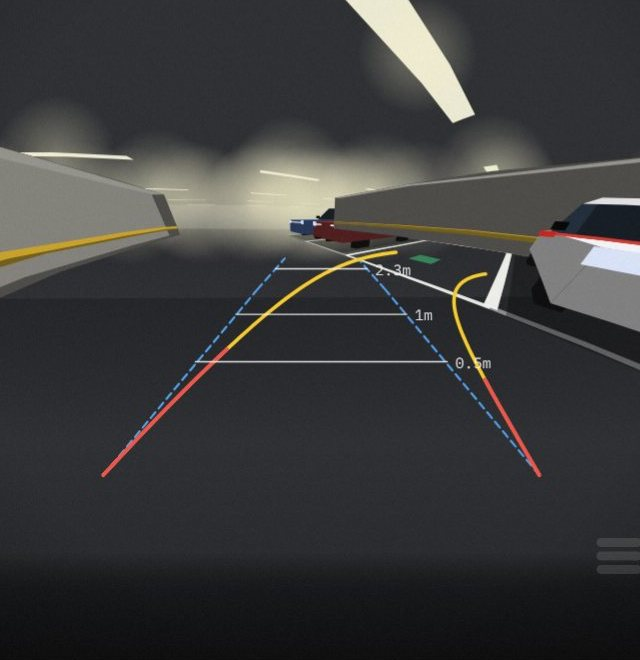
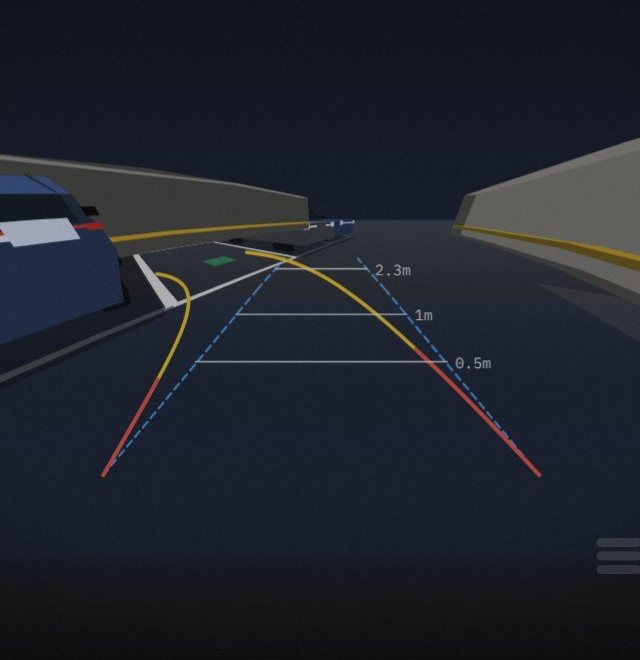
졸업 코스 · 기획서 03 표 압축 · 밤 히어로 · 접수양식 기획서
- 시안: 졸업 코스(초급·중급·고급 하나씩 연속 3개, 합계 기록, 리더보드 course)
- 기획서: 03 기능 목록을 표 + 접기로 압축, 54.7% 삭제, 출처·MAU 근거 보강
- 소개 페이지 히어로를 밤 후진 장면으로 교체
- docs/submission: 공식 접수양식(DOCX)에 기획서 내용 기입(01 개인정보 칸은 비움)

Claude-Session: https://claude.ai/code/session_01FzT5JMZgnQT3zngYysKg7k

diff --git a/docs/sian.html b/docs/sian.html
@@ -1126,7 +1126,7 @@ const SSOK = window.SSOK, V = window.SSOK_VIEW, $ = id => document.getElementByI
 const store = { get(k, d) { try { const v = localStorage.getItem(k); return v === null ? d : JSON.parse(v); } catch (e) { return d; } }, set(k, v) { try { localStorage.setItem(k, JSON.stringify(v)); } catch (e) {} } };
 let cleared = store.get("ssok.cleared", {});
 
-const S = { spec: SSOK.SPECS.AVANTE, stageIdx: 0, eng: null, sc: null, seed: 1, steer: 0, signal: "OFF", brake: true, brakeD: 1, hazL: false, gear: "P", guide: true, running: false, coach: "on", coachOverride: null, hintUntil: 0, demo: null, demoDone: false, lastScore: null, saved: false, sound: store.get("ssok.sound", true), portraitOk: false };
+const S = { course: null, spec: SSOK.SPECS.AVANTE, stageIdx: 0, eng: null, sc: null, seed: 1, steer: 0, signal: "OFF", brake: true, brakeD: 1, hazL: false, gear: "P", guide: true, running: false, coach: "on", coachOverride: null, hintUntil: 0, demo: null, demoDone: false, lastScore: null, saved: false, sound: store.get("ssok.sound", true), portraitOk: false };
 const COACH_BY_TIER = { "초급": "on", "중급": "hint", "고급": "off" }, COACH_LABEL = { on: "코치 켬", hint: "코치 힌트", off: "코치 끔" };
 const SSOK_STEPS = { 4: ["S 신호", "S 자리", "O 돌리기", "K 끝"], 5: ["S 신호", "S 자리", "O 돌리기", "O 보정", "K 끝"] };   // 코치 단계 = 쏙 공식 글자
 const sigOfGear = g => g === "D" ? "LEFT" : g === "R" ? "RIGHT" : "OFF";
@@ -1134,10 +1134,12 @@ let toastT = 0; function toast(msg, warn) { const t = $("toast"); t.textContent 
 const fill = (sel, map) => { sel.innerHTML = Object.entries(map).map(([k, v]) => `<option value="${k}">${v}</option>`).join(""); };
 fill($("fKind"), SSOK.KINDS); fill($("fTier"), Object.fromEntries(Object.keys(SSOK.TIERS).map(k => [k, k]))); fill($("fNeigh"), SSOK.NEIGH); fill($("fSide"), SSOK.SIDES); fill($("fHaz"), SSOK.HAZ);
 $("fTier").value = "중급"; $("fNeigh").value = "cars";
-const FREE = "free", DAILY = "daily";
+const FREE = "free", DAILY = "daily", COURSE = "course";
+// 졸업 코스(운전선생 벤치마킹 '단계 연습 → 종합'): 초급·중급·고급에서 하나씩 뽑아 연속 3개, 합계 시간이 기록
+function pickCourse() { const by = t => SSOK.STAGES.map((st, i) => [st, i]).filter(([st]) => st.tier === t).map(([, i]) => i); return ["초급", "중급", "고급"].map(t => { const l = by(t); return l[Math.floor(Math.random() * l.length)]; }); }
 // 오늘의 상황: 날짜가 seed — 모두가 같은 스테이지·같은 옆 차·같은 시작 자세로 기록을 겨룬다(기록은 날짜별 따로)
 function daily() { const d = new Date(), key = `${d.getFullYear()}-${String(d.getMonth() + 1).padStart(2, "0")}-${String(d.getDate()).padStart(2, "0")}`, n = +key.replace(/-/g, ""); return { key, seed: n, idx: n % SSOK.STAGES.length, label: `${d.getMonth() + 1}.${d.getDate()}` }; }
-function currentOpt() { return S.stageIdx === FREE ? { kind: $("fKind").value, tier: $("fTier").value, neighbors: $("fNeigh").value, side: $("fSide").value, hazards: +$("fHaz").value } : S.stageIdx === DAILY ? SSOK.STAGES[daily().idx] : SSOK.STAGES[S.stageIdx]; }
+function currentOpt() { return S.stageIdx === FREE ? { kind: $("fKind").value, tier: $("fTier").value, neighbors: $("fNeigh").value, side: $("fSide").value, hazards: +$("fHaz").value } : S.stageIdx === DAILY ? SSOK.STAGES[daily().idx] : S.stageIdx === COURSE ? SSOK.STAGES[S.course.list[S.course.i]] : SSOK.STAGES[S.stageIdx]; }
 function newSeed() { S.seed = S.stageIdx === DAILY ? daily().seed : (Math.random() * 1e6 | 0) + 1; }
 
 // ---- 소리(Web Audio, 파일 없음): 깜빡이 틱톡 · 비상등 · 주차 거리 경고 · 돌발 경보 · 충돌 · 완료 차임 ----
@@ -1154,11 +1156,11 @@ const SFX = { tick: () => tone(1800, 0.03, "square", 0.05), tock: () => tone(120
   hit: () => { tone(120, 0.25, "triangle", 0.25); tone(90, 0.3, "sine", 0.2, 0.02); }, parked: () => { [523, 659, 784, 1047].forEach((f, i) => tone(f, 0.18, "sine", 0.12, i * 0.12)); }, gear: () => tone(500, 0.04, "square", 0.04) };
 
 // ---- 리더보드(이 기기) ----
-function lbKey() { return `ssok.lb.${S.stageIdx === FREE ? "free" : S.stageIdx === DAILY ? "daily." + daily().key : SSOK.STAGES[S.stageIdx].no}.${S.spec.key}`; }
+function lbKey() { return `ssok.lb.${S.stageIdx === FREE ? "free" : S.stageIdx === DAILY ? "daily." + daily().key : S.stageIdx === COURSE ? "course" : SSOK.STAGES[S.stageIdx].no}.${S.spec.key}`; }
 function lbList() { return store.get(lbKey(), []); }
 function lbRank(total) { return lbList().filter(r => r.total < total).length + 1; }
 function lbAdd(rec) { const l = lbList(); l.push(rec); l.sort((a, b) => a.total - b.total); const top = l.slice(0, 10); store.set(lbKey(), top); const i = top.indexOf(rec); return i < 0 ? 0 : i + 1; }
-function renderLb() { const l = lbList(); $("lbTitle").textContent = `기록 TOP 5 · ${S.stageIdx === FREE ? "자유 연습" : S.stageIdx === DAILY ? "오늘의 상황 " + daily().label : SSOK.STAGES[S.stageIdx].no + "번"} · ${S.spec.name} · 이 기기`;
+function renderLb() { const l = lbList(); $("lbTitle").textContent = `기록 TOP 5 · ${S.stageIdx === FREE ? "자유 연습" : S.stageIdx === DAILY ? "오늘의 상황 " + daily().label : S.stageIdx === COURSE ? "졸업 코스(3개 합계)" : SSOK.STAGES[S.stageIdx].no + "번"} · ${S.spec.name} · 이 기기`;
   $("lbBody").innerHTML = l.length ? `<table>${l.slice(0, 5).map((r, i) => `<tr><td>${i + 1}</td><td>${r.name || "—"}</td><td class="r">${r.total.toFixed(1)} s</td><td class="r" style="color:var(--fg3)">${r.pen ? "+" + r.pen.toFixed(0) : ""}${r.clean ? " ✓" : ""}</td><td class="r" style="color:var(--fg3)">${r.date || ""}</td></tr>`).join("")}</table>` : `<div class="empty">아직 기록이 없어요. 첫 기록을 남겨 보세요.</div>`; }
 
 // ---- 홈 ----
@@ -1169,16 +1171,18 @@ function renderList() {
   SSOK.STAGES.forEach((st, i) => { if (st.tier !== lastTier) { html += `<div class="tier">${st.tier}</div>`; lastTier = st.tier; }
     const best = store.get(`ssok.lb.${st.no}.${S.spec.key}`, [])[0];
     html += `<button class="stg ${S.stageIdx === i ? "sel" : ""}" data-i="${i}"><span class="no">${String(st.no).padStart(2, "0")}</span><span class="t">${SSOK.stageTitle(st).replace(/^\d+\. \[[^\]]+\] /, "")}</span><span class="ok">${best ? best.total.toFixed(1) + " s" : (cleared[st.no] ? "✓" : "")}</span></button>`; });
+  { const best = store.get(`ssok.lb.course.${S.spec.key}`, [])[0]; html += `<div class="tier">졸업 코스</div><button class="stg ${S.stageIdx === COURSE ? "sel" : ""}" data-i="course"><span class="no">🎓</span><span class="t">초급 · 중급 · 고급 하나씩 연속 3개 · 합계가 기록</span><span class="ok">${best ? best.total.toFixed(1) + " s" : ""}</span></button>`; }
   html += `<div class="tier">자유 연습</div><button class="stg ${S.stageIdx === FREE ? "sel" : ""}" data-i="free"><span class="no">∞</span><span class="t">유형·난이도·옆 차·칸·돌발 직접 고르기</span></button>`;
   el.innerHTML = html;
-  el.querySelectorAll(".stg").forEach(b => b.onclick = () => { const idx = b.dataset.i === "free" ? FREE : b.dataset.i === "daily" ? DAILY : +b.dataset.i;
-    if (idx === S.stageIdx && idx !== FREE) { load(false); start(); return; }
+  el.querySelectorAll(".stg").forEach(b => b.onclick = () => { const idx = b.dataset.i === "free" ? FREE : b.dataset.i === "daily" ? DAILY : b.dataset.i === "course" ? COURSE : +b.dataset.i;
+    if (idx === COURSE && S.stageIdx !== COURSE) S.course = { list: pickCourse(), i: 0, sum: 0, pen: 0, clean: true };
+    if (idx === S.stageIdx && idx !== FREE) { if (idx === COURSE) S.course = { list: pickCourse(), i: 0, sum: 0, pen: 0, clean: true }; load(false); start(); return; }
     S.stageIdx = idx; renderList(); renderSetupPane(); const pane = document.querySelector(".setup .pane"); if (pane) pane.scrollTop = 0; });
 }
 function renderSetupPane() {
   const opt = currentOpt(), T = SSOK.TIERS[opt.tier];
   $("freeOpts").style.display = S.stageIdx === FREE ? "grid" : "none";
-  $("setupTitle").textContent = S.stageIdx === FREE ? "자유 연습" : (S.stageIdx === DAILY ? `오늘의 상황 ${daily().label} · ` : "") + SSOK.stageTitle(opt).replace(/^\d+\. /, "");
+  $("setupTitle").textContent = S.stageIdx === FREE ? "자유 연습" : S.stageIdx === COURSE ? `졸업 코스 · ${S.course.list.map(i => SSOK.STAGES[i].no).join(" → ")}번` : (S.stageIdx === DAILY ? `오늘의 상황 ${daily().label} · ` : "") + SSOK.stageTitle(opt).replace(/^\d+\. /, "");
   const what = { perp_rev: "비상등 켜고 D 로 칸을 지나쳐 자리를 잡고, R 로 들어가는 후면 주차. 뒷차축이 옆 칸을 지나면 멈춰서 핸들 끝까지, 노란선이 주차선 안에 들어오면 풀기.",
     perp_fwd: opt.neighbors === "none" ? "D 로 들어가는 전면 주차. 칸 입구가 사이드미러 옆에 오면 끝까지." : "전면 주차는 옆 차가 있으면 한 번에 안 들어갑니다. 바깥쪽으로 붙여 지나치다 40° 꺾고, R 로 핸들 반대로 2 m 뺀 뒤 다시 들어갑니다.",
     parallel: "평행 주차. D 로 앞차 옆에 나란히 서서 뒷바퀴가 앞차 뒷범퍼 선에 오면 R, 45°에서 핸들 반대로.", angled: "사선 45° 칸에 D 로. 칸 입구가 사이드미러 옆에 오면 끝까지, 나란해지면 직진." }[opt.kind];
@@ -1196,7 +1200,7 @@ $("hintBtn").onclick = () => { S.hintUntil = performance.now() + 3000; };
 function load(keepSeed, demo) {
   if (!keepSeed) newSeed();
   const opt = currentOpt(); S.sc = SSOK.build(S.spec, opt, S.seed, demo ? { noStartJitter: true } : null);
-  if (S.stageIdx === FREE) S.sc.title = "자유 연습 · " + SSOK.stageTitle({ ...opt, no: 0 }); if (S.stageIdx === DAILY) S.sc.title = `오늘의 상황 ${daily().label} · ` + S.sc.title;
+  if (S.stageIdx === FREE) S.sc.title = "자유 연습 · " + SSOK.stageTitle({ ...opt, no: 0 }); if (S.stageIdx === DAILY) S.sc.title = `오늘의 상황 ${daily().label} · ` + S.sc.title; if (S.stageIdx === COURSE) S.sc.title = `졸업 코스 ${S.course.i + 1}/3 · ` + S.sc.title;
   S.demo = demo ? new SSOK.Demo(SSOK, S.spec, S.sc, opt) : null; S.demoDone = false; $("demoBar").classList.toggle("show", !!demo); $("demoCap").textContent = "";
   S.eng = new SSOK.Engine(S.spec, S.sc, S.seed); S.saved = false;
   $("stageName").textContent = S.sc.title; $("topInfo").textContent = `${S.spec.name} · ${SSOK.ENV_LABEL[S.sc.env] || S.sc.env} · #${S.seed}`; lastSaid = "";
@@ -1258,7 +1262,8 @@ $("hazBtn").onclick = () => { userInput(); setHaz(!S.hazL); };
 $("gear").onclick = () => { S.gear = S.gear === "P" ? "D" : "P"; $("gearInd").innerHTML = S.gear === "P" ? "<b>P</b>R N D" : "P R N <b>D</b>"; $("gearInd").classList.toggle("warn", S.gear !== "P"); };
 $("guideBtn").onclick = () => { S.guide = !S.guide; $("guideBtn").classList.toggle("on", S.guide); };
 $("reset").onclick = () => load(true); $("again").onclick = () => load(true); $("sameAgain").onclick = () => load(true); $("againNew").onclick = () => load(false); $("newSit").onclick = () => load(false);
-function nextStage() { if (S.stageIdx === DAILY) S.stageIdx = daily().idx; if (S.stageIdx !== FREE) S.stageIdx = (S.stageIdx + 1) % SSOK.STAGES.length; renderList(); load(false); }
+function nextStage() { if (S.stageIdx === COURSE) { if (S.course.i < 2) { S.course.i++; load(false); return; } S.course = { list: pickCourse(), i: 0, sum: 0, pen: 0, clean: true }; load(false); return; }
+  if (S.stageIdx === DAILY) S.stageIdx = daily().idx; if (S.stageIdx !== FREE) S.stageIdx = (S.stageIdx + 1) % SSOK.STAGES.length; renderList(); load(false); }
 $("next").onclick = nextStage; $("toMenu").onclick = goHome;
 $("startBtn").onclick = () => { load(false); start(); };
 $("startDemo").onclick = () => { load(false, true); start(); };
@@ -1294,11 +1299,16 @@ setTimeout(() => $("opening").classList.remove("show"), 4200);
 
 // ---- 결과 + 기록 ----
 let wasParked = false;
-function showDone() { const eng = S.eng, hz = eng.hazStats, sc = eng.score(); S.lastScore = sc; $("done").classList.add("show"); SFX.parked();
+function showDone() { const eng = S.eng, hz = eng.hazStats, sc0 = eng.score(); let sc = sc0; $("done").classList.add("show"); SFX.parked();
+  if (S.stageIdx === COURSE) { const c = S.course; c.sum += sc0.total; c.pen += sc0.pen; c.clean = c.clean && sc0.clean; const last = c.i >= 2;
+    sc = last ? { ...sc0, total: c.sum, pen: c.pen, drive: c.sum - c.pen, clean: c.clean, corrections: sc0.corrections } : sc0;
+    $("next").textContent = last ? "새 졸업 코스 ▶" : `다음 코스 ${c.i + 2}/3 ▶`; $("saveRec").classList.toggle("hidden", !last); $("nameIn").classList.toggle("hidden", !last); }
+  else { $("next").textContent = "다음 스테이지 ▶"; $("saveRec").classList.remove("hidden"); $("nameIn").classList.remove("hidden"); }
+  S.lastScore = sc;
   const T = eng.trace, rev = T.filter(p => p.v < 0).length;
-  $("doneTitle").textContent = sc.clean ? "쏙! 클린" : (eng.hits === 0 && hz.hit === 0 ? "쏙!" : "쏙! 들어갔지만 부딪혔어요");
+  $("doneTitle").textContent = S.stageIdx === COURSE && S.course.i >= 2 ? (sc.clean ? "졸업! 클린" : "졸업!") : S.stageIdx === COURSE ? `${S.course.i + 1}/3 쏙` : sc.clean ? "쏙! 클린" : (eng.hits === 0 && hz.hit === 0 ? "쏙!" : "쏙! 들어갔지만 부딪혔어요");
   $("doneTxt").textContent = `${eng.sc.title} · 후진 ${T.length ? (rev / T.length * 100).toFixed(0) : 0}% · 충돌 ${eng.hits}회` + (hz.total ? ` · 돌발 ${hz.total}회 중 멈춤 ${hz.avoided}회 · 사고 ${hz.hit}회` : "") + (sc.corrections ? ` · 보정 ${sc.corrections}회` : "");
-  $("recBig").innerHTML = `${sc.total.toFixed(1)}<small> s</small>`;
+  $("recBig").innerHTML = `${sc.total.toFixed(1)}<small> s</small>` + (S.stageIdx === COURSE ? `<small style="margin-left:10px;color:var(--fg2)">${S.course.i >= 2 ? "3개 합계" : "누적 " + S.course.sum.toFixed(1) + " s"}</small>` : "");
   const parts = [`충돌 ${eng.hits}×5`]; if (hz.hit) parts.push(`사고 ${hz.hit}×15`); if (sc.corrections) parts.push(`보정 ${sc.corrections}×3`); if (sc.noHazLights) parts.push("비상등 안 켬 +2");
   $("recPen").textContent = sc.pen ? `주행 ${sc.drive.toFixed(1)} + 패널티 ${sc.pen.toFixed(0)} (${parts.join(" · ")})` : `주행 ${sc.drive.toFixed(1)} · 패널티 없음`;
   $("recClean").classList.toggle("hidden", !sc.clean);
@@ -1306,7 +1316,8 @@ function showDone() { const eng = S.eng, hz = eng.hazStats, sc = eng.score(); S.
   $("nameIn").value = store.get("ssok.name", ""); $("saveMsg").textContent = ""; $("saveRec").disabled = false;
   $("review").innerHTML = eng.review().map(t => `<li>${t}</li>`).join("");
   RP.trace = T; RP.ghost = ghostPath(); RP.t0 = performance.now(); RP.dur = T.length ? T[T.length - 1].t : 0;
-  if (S.stageIdx !== FREE && S.stageIdx !== DAILY && sc.clean) { cleared[SSOK.STAGES[S.stageIdx].no] = true; store.set("ssok.cleared", cleared); } }
+  if (S.stageIdx === COURSE) { if (sc0.clean) { cleared[SSOK.STAGES[S.course.list[S.course.i]].no] = true; store.set("ssok.cleared", cleared); } }
+  else if (S.stageIdx !== FREE && S.stageIdx !== DAILY && sc.clean) { cleared[SSOK.STAGES[S.stageIdx].no] = true; store.set("ssok.cleared", cleared); } }
 // 공식 궤적: 같은 상황(같은 시작 자세)을 시연 운전자가 가게 해서 뒷차축 자취를 얻는다
 const RP = { trace: [], ghost: [], t0: 0, dur: 0 };
 function ghostPath() { try { const eng = new SSOK.Engine(S.spec, S.sc, S.seed), d = new SSOK.Demo(SSOK, S.spec, S.sc, currentOpt()), pts = []; let t = 0;

diff --git a/site/preview/index.html b/site/preview/index.html
@@ -414,7 +414,7 @@ const SSOK = window.SSOK, V = window.SSOK_VIEW, $ = id => document.getElementByI
 const store = { get(k, d) { try { const v = localStorage.getItem(k); return v === null ? d : JSON.parse(v); } catch (e) { return d; } }, set(k, v) { try { localStorage.setItem(k, JSON.stringify(v)); } catch (e) {} } };
 let cleared = store.get("ssok.cleared", {});
 
-const S = { spec: SSOK.SPECS.AVANTE, stageIdx: 0, eng: null, sc: null, seed: 1, steer: 0, signal: "OFF", brake: true, brakeD: 1, hazL: false, gear: "P", guide: true, running: false, coach: "on", coachOverride: null, hintUntil: 0, demo: null, demoDone: false, lastScore: null, saved: false, sound: store.get("ssok.sound", true), portraitOk: false };
+const S = { course: null, spec: SSOK.SPECS.AVANTE, stageIdx: 0, eng: null, sc: null, seed: 1, steer: 0, signal: "OFF", brake: true, brakeD: 1, hazL: false, gear: "P", guide: true, running: false, coach: "on", coachOverride: null, hintUntil: 0, demo: null, demoDone: false, lastScore: null, saved: false, sound: store.get("ssok.sound", true), portraitOk: false };
 const COACH_BY_TIER = { "초급": "on", "중급": "hint", "고급": "off" }, COACH_LABEL = { on: "코치 켬", hint: "코치 힌트", off: "코치 끔" };
 const SSOK_STEPS = { 4: ["S 신호", "S 자리", "O 돌리기", "K 끝"], 5: ["S 신호", "S 자리", "O 돌리기", "O 보정", "K 끝"] };   // 코치 단계 = 쏙 공식 글자
 const sigOfGear = g => g === "D" ? "LEFT" : g === "R" ? "RIGHT" : "OFF";
@@ -422,10 +422,12 @@ let toastT = 0; function toast(msg, warn) { const t = $("toast"); t.textContent 
 const fill = (sel, map) => { sel.innerHTML = Object.entries(map).map(([k, v]) => `<option value="${k}">${v}</option>`).join(""); };
 fill($("fKind"), SSOK.KINDS); fill($("fTier"), Object.fromEntries(Object.keys(SSOK.TIERS).map(k => [k, k]))); fill($("fNeigh"), SSOK.NEIGH); fill($("fSide"), SSOK.SIDES); fill($("fHaz"), SSOK.HAZ);
 $("fTier").value = "중급"; $("fNeigh").value = "cars";
-const FREE = "free", DAILY = "daily";
+const FREE = "free", DAILY = "daily", COURSE = "course";
+// 졸업 코스(운전선생 벤치마킹 '단계 연습 → 종합'): 초급·중급·고급에서 하나씩 뽑아 연속 3개, 합계 시간이 기록
+function pickCourse() { const by = t => SSOK.STAGES.map((st, i) => [st, i]).filter(([st]) => st.tier === t).map(([, i]) => i); return ["초급", "중급", "고급"].map(t => { const l = by(t); return l[Math.floor(Math.random() * l.length)]; }); }
 // 오늘의 상황: 날짜가 seed — 모두가 같은 스테이지·같은 옆 차·같은 시작 자세로 기록을 겨룬다(기록은 날짜별 따로)
 function daily() { const d = new Date(), key = `${d.getFullYear()}-${String(d.getMonth() + 1).padStart(2, "0")}-${String(d.getDate()).padStart(2, "0")}`, n = +key.replace(/-/g, ""); return { key, seed: n, idx: n % SSOK.STAGES.length, label: `${d.getMonth() + 1}.${d.getDate()}` }; }
-function currentOpt() { return S.stageIdx === FREE ? { kind: $("fKind").value, tier: $("fTier").value, neighbors: $("fNeigh").value, side: $("fSide").value, hazards: +$("fHaz").value } : S.stageIdx === DAILY ? SSOK.STAGES[daily().idx] : SSOK.STAGES[S.stageIdx]; }
+function currentOpt() { return S.stageIdx === FREE ? { kind: $("fKind").value, tier: $("fTier").value, neighbors: $("fNeigh").value, side: $("fSide").value, hazards: +$("fHaz").value } : S.stageIdx === DAILY ? SSOK.STAGES[daily().idx] : S.stageIdx === COURSE ? SSOK.STAGES[S.course.list[S.course.i]] : SSOK.STAGES[S.stageIdx]; }
 function newSeed() { S.seed = S.stageIdx === DAILY ? daily().seed : (Math.random() * 1e6 | 0) + 1; }
 
 // ---- 소리(Web Audio, 파일 없음): 깜빡이 틱톡 · 비상등 · 주차 거리 경고 · 돌발 경보 · 충돌 · 완료 차임 ----
@@ -442,11 +444,11 @@ const SFX = { tick: () => tone(1800, 0.03, "square", 0.05), tock: () => tone(120
   hit: () => { tone(120, 0.25, "triangle", 0.25); tone(90, 0.3, "sine", 0.2, 0.02); }, parked: () => { [523, 659, 784, 1047].forEach((f, i) => tone(f, 0.18, "sine", 0.12, i * 0.12)); }, gear: () => tone(500, 0.04, "square", 0.04) };
 
 // ---- 리더보드(이 기기) ----
-function lbKey() { return `ssok.lb.${S.stageIdx === FREE ? "free" : S.stageIdx === DAILY ? "daily." + daily().key : SSOK.STAGES[S.stageIdx].no}.${S.spec.key}`; }
+function lbKey() { return `ssok.lb.${S.stageIdx === FREE ? "free" : S.stageIdx === DAILY ? "daily." + daily().key : S.stageIdx === COURSE ? "course" : SSOK.STAGES[S.stageIdx].no}.${S.spec.key}`; }
 function lbList() { return store.get(lbKey(), []); }
 function lbRank(total) { return lbList().filter(r => r.total < total).length + 1; }
 function lbAdd(rec) { const l = lbList(); l.push(rec); l.sort((a, b) => a.total - b.total); const top = l.slice(0, 10); store.set(lbKey(), top); const i = top.indexOf(rec); return i < 0 ? 0 : i + 1; }
-function renderLb() { const l = lbList(); $("lbTitle").textContent = `기록 TOP 5 · ${S.stageIdx === FREE ? "자유 연습" : S.stageIdx === DAILY ? "오늘의 상황 " + daily().label : SSOK.STAGES[S.stageIdx].no + "번"} · ${S.spec.name} · 이 기기`;
+function renderLb() { const l = lbList(); $("lbTitle").textContent = `기록 TOP 5 · ${S.stageIdx === FREE ? "자유 연습" : S.stageIdx === DAILY ? "오늘의 상황 " + daily().label : S.stageIdx === COURSE ? "졸업 코스(3개 합계)" : SSOK.STAGES[S.stageIdx].no + "번"} · ${S.spec.name} · 이 기기`;
   $("lbBody").innerHTML = l.length ? `<table>${l.slice(0, 5).map((r, i) => `<tr><td>${i + 1}</td><td>${r.name || "—"}</td><td class="r">${r.total.toFixed(1)} s</td><td class="r" style="color:var(--fg3)">${r.pen ? "+" + r.pen.toFixed(0) : ""}${r.clean ? " ✓" : ""}</td><td class="r" style="color:var(--fg3)">${r.date || ""}</td></tr>`).join("")}</table>` : `<div class="empty">아직 기록이 없어요. 첫 기록을 남겨 보세요.</div>`; }
 
 // ---- 홈 ----
@@ -457,16 +459,18 @@ function renderList() {
   SSOK.STAGES.forEach((st, i) => { if (st.tier !== lastTier) { html += `<div class="tier">${st.tier}</div>`; lastTier = st.tier; }
     const best = store.get(`ssok.lb.${st.no}.${S.spec.key}`, [])[0];
     html += `<button class="stg ${S.stageIdx === i ? "sel" : ""}" data-i="${i}"><span class="no">${String(st.no).padStart(2, "0")}</span><span class="t">${SSOK.stageTitle(st).replace(/^\d+\. \[[^\]]+\] /, "")}</span><span class="ok">${best ? best.total.toFixed(1) + " s" : (cleared[st.no] ? "✓" : "")}</span></button>`; });
+  { const best = store.get(`ssok.lb.course.${S.spec.key}`, [])[0]; html += `<div class="tier">졸업 코스</div><button class="stg ${S.stageIdx === COURSE ? "sel" : ""}" data-i="course"><span class="no">🎓</span><span class="t">초급 · 중급 · 고급 하나씩 연속 3개 · 합계가 기록</span><span class="ok">${best ? best.total.toFixed(1) + " s" : ""}</span></button>`; }
   html += `<div class="tier">자유 연습</div><button class="stg ${S.stageIdx === FREE ? "sel" : ""}" data-i="free"><span class="no">∞</span><span class="t">유형·난이도·옆 차·칸·돌발 직접 고르기</span></button>`;
   el.innerHTML = html;
-  el.querySelectorAll(".stg").forEach(b => b.onclick = () => { const idx = b.dataset.i === "free" ? FREE : b.dataset.i === "daily" ? DAILY : +b.dataset.i;
-    if (idx === S.stageIdx && idx !== FREE) { load(false); start(); return; }
+  el.querySelectorAll(".stg").forEach(b => b.onclick = () => { const idx = b.dataset.i === "free" ? FREE : b.dataset.i === "daily" ? DAILY : b.dataset.i === "course" ? COURSE : +b.dataset.i;
+    if (idx === COURSE && S.stageIdx !== COURSE) S.course = { list: pickCourse(), i: 0, sum: 0, pen: 0, clean: true };
+    if (idx === S.stageIdx && idx !== FREE) { if (idx === COURSE) S.course = { list: pickCourse(), i: 0, sum: 0, pen: 0, clean: true }; load(false); start(); return; }
     S.stageIdx = idx; renderList(); renderSetupPane(); const pane = document.querySelector(".setup .pane"); if (pane) pane.scrollTop = 0; });
 }
 function renderSetupPane() {
   const opt = currentOpt(), T = SSOK.TIERS[opt.tier];
   $("freeOpts").style.display = S.stageIdx === FREE ? "grid" : "none";
-  $("setupTitle").textContent = S.stageIdx === FREE ? "자유 연습" : (S.stageIdx === DAILY ? `오늘의 상황 ${daily().label} · ` : "") + SSOK.stageTitle(opt).replace(/^\d+\. /, "");
+  $("setupTitle").textContent = S.stageIdx === FREE ? "자유 연습" : S.stageIdx === COURSE ? `졸업 코스 · ${S.course.list.map(i => SSOK.STAGES[i].no).join(" → ")}번` : (S.stageIdx === DAILY ? `오늘의 상황 ${daily().label} · ` : "") + SSOK.stageTitle(opt).replace(/^\d+\. /, "");
   const what = { perp_rev: "비상등 켜고 D 로 칸을 지나쳐 자리를 잡고, R 로 들어가는 후면 주차. 뒷차축이 옆 칸을 지나면 멈춰서 핸들 끝까지, 노란선이 주차선 안에 들어오면 풀기.",
     perp_fwd: opt.neighbors === "none" ? "D 로 들어가는 전면 주차. 칸 입구가 사이드미러 옆에 오면 끝까지." : "전면 주차는 옆 차가 있으면 한 번에 안 들어갑니다. 바깥쪽으로 붙여 지나치다 40° 꺾고, R 로 핸들 반대로 2 m 뺀 뒤 다시 들어갑니다.",
     parallel: "평행 주차. D 로 앞차 옆에 나란히 서서 뒷바퀴가 앞차 뒷범퍼 선에 오면 R, 45°에서 핸들 반대로.", angled: "사선 45° 칸에 D 로. 칸 입구가 사이드미러 옆에 오면 끝까지, 나란해지면 직진." }[opt.kind];
@@ -484,7 +488,7 @@ $("hintBtn").onclick = () => { S.hintUntil = performance.now() + 3000; };
 function load(keepSeed, demo) {
   if (!keepSeed) newSeed();
   const opt = currentOpt(); S.sc = SSOK.build(S.spec, opt, S.seed, demo ? { noStartJitter: true } : null);
-  if (S.stageIdx === FREE) S.sc.title = "자유 연습 · " + SSOK.stageTitle({ ...opt, no: 0 }); if (S.stageIdx === DAILY) S.sc.title = `오늘의 상황 ${daily().label} · ` + S.sc.title;
+  if (S.stageIdx === FREE) S.sc.title = "자유 연습 · " + SSOK.stageTitle({ ...opt, no: 0 }); if (S.stageIdx === DAILY) S.sc.title = `오늘의 상황 ${daily().label} · ` + S.sc.title; if (S.stageIdx === COURSE) S.sc.title = `졸업 코스 ${S.course.i + 1}/3 · ` + S.sc.title;
   S.demo = demo ? new SSOK.Demo(SSOK, S.spec, S.sc, opt) : null; S.demoDone = false; $("demoBar").classList.toggle("show", !!demo); $("demoCap").textContent = "";
   S.eng = new SSOK.Engine(S.spec, S.sc, S.seed); S.saved = false;
   $("stageName").textContent = S.sc.title; $("topInfo").textContent = `${S.spec.name} · ${SSOK.ENV_LABEL[S.sc.env] || S.sc.env} · #${S.seed}`; lastSaid = "";
@@ -546,7 +550,8 @@ $("hazBtn").onclick = () => { userInput(); setHaz(!S.hazL); };
 $("gear").onclick = () => { S.gear = S.gear === "P" ? "D" : "P"; $("gearInd").innerHTML = S.gear === "P" ? "<b>P</b>R N D" : "P R N <b>D</b>"; $("gearInd").classList.toggle("warn", S.gear !== "P"); };
 $("guideBtn").onclick = () => { S.guide = !S.guide; $("guideBtn").classList.toggle("on", S.guide); };
 $("reset").onclick = () => load(true); $("again").onclick = () => load(true); $("sameAgain").onclick = () => load(true); $("againNew").onclick = () => load(false); $("newSit").onclick = () => load(false);
-function nextStage() { if (S.stageIdx === DAILY) S.stageIdx = daily().idx; if (S.stageIdx !== FREE) S.stageIdx = (S.stageIdx + 1) % SSOK.STAGES.length; renderList(); load(false); }
+function nextStage() { if (S.stageIdx === COURSE) { if (S.course.i < 2) { S.course.i++; load(false); return; } S.course = { list: pickCourse(), i: 0, sum: 0, pen: 0, clean: true }; load(false); return; }
+  if (S.stageIdx === DAILY) S.stageIdx = daily().idx; if (S.stageIdx !== FREE) S.stageIdx = (S.stageIdx + 1) % SSOK.STAGES.length; renderList(); load(false); }
 $("next").onclick = nextStage; $("toMenu").onclick = goHome;
 $("startBtn").onclick = () => { load(false); start(); };
 $("startDemo").onclick = () => { load(false, true); start(); };
@@ -582,11 +587,16 @@ setTimeout(() => $("opening").classList.remove("show"), 4200);
 
 // ---- 결과 + 기록 ----
 let wasParked = false;
-function showDone() { const eng = S.eng, hz = eng.hazStats, sc = eng.score(); S.lastScore = sc; $("done").classList.add("show"); SFX.parked();
+function showDone() { const eng = S.eng, hz = eng.hazStats, sc0 = eng.score(); let sc = sc0; $("done").classList.add("show"); SFX.parked();
+  if (S.stageIdx === COURSE) { const c = S.course; c.sum += sc0.total; c.pen += sc0.pen; c.clean = c.clean && sc0.clean; const last = c.i >= 2;
+    sc = last ? { ...sc0, total: c.sum, pen: c.pen, drive: c.sum - c.pen, clean: c.clean, corrections: sc0.corrections } : sc0;
+    $("next").textContent = last ? "새 졸업 코스 ▶" : `다음 코스 ${c.i + 2}/3 ▶`; $("saveRec").classList.toggle("hidden", !last); $("nameIn").classList.toggle("hidden", !last); }
+  else { $("next").textContent = "다음 스테이지 ▶"; $("saveRec").classList.remove("hidden"); $("nameIn").classList.remove("hidden"); }
+  S.lastScore = sc;
   const T = eng.trace, rev = T.filter(p => p.v < 0).length;
-  $("doneTitle").textContent = sc.clean ? "쏙! 클린" : (eng.hits === 0 && hz.hit === 0 ? "쏙!" : "쏙! 들어갔지만 부딪혔어요");
+  $("doneTitle").textContent = S.stageIdx === COURSE && S.course.i >= 2 ? (sc.clean ? "졸업! 클린" : "졸업!") : S.stageIdx === COURSE ? `${S.course.i + 1}/3 쏙` : sc.clean ? "쏙! 클린" : (eng.hits === 0 && hz.hit === 0 ? "쏙!" : "쏙! 들어갔지만 부딪혔어요");
   $("doneTxt").textContent = `${eng.sc.title} · 후진 ${T.length ? (rev / T.length * 100).toFixed(0) : 0}% · 충돌 ${eng.hits}회` + (hz.total ? ` · 돌발 ${hz.total}회 중 멈춤 ${hz.avoided}회 · 사고 ${hz.hit}회` : "") + (sc.corrections ? ` · 보정 ${sc.corrections}회` : "");
-  $("recBig").innerHTML = `${sc.total.toFixed(1)}<small> s</small>`;
+  $("recBig").innerHTML = `${sc.total.toFixed(1)}<small> s</small>` + (S.stageIdx === COURSE ? `<small style="margin-left:10px;color:var(--fg2)">${S.course.i >= 2 ? "3개 합계" : "누적 " + S.course.sum.toFixed(1) + " s"}</small>` : "");
   const parts = [`충돌 ${eng.hits}×5`]; if (hz.hit) parts.push(`사고 ${hz.hit}×15`); if (sc.corrections) parts.push(`보정 ${sc.corrections}×3`); if (sc.noHazLights) parts.push("비상등 안 켬 +2");
   $("recPen").textContent = sc.pen ? `주행 ${sc.drive.toFixed(1)} + 패널티 ${sc.pen.toFixed(0)} (${parts.join(" · ")})` : `주행 ${sc.drive.toFixed(1)} · 패널티 없음`;
   $("recClean").classList.toggle("hidden", !sc.clean);
@@ -594,7 +604,8 @@ function showDone() { const eng = S.eng, hz = eng.hazStats, sc = eng.score(); S.
   $("nameIn").value = store.get("ssok.name", ""); $("saveMsg").textContent = ""; $("saveRec").disabled = false;
   $("review").innerHTML = eng.review().map(t => `<li>${t}</li>`).join("");
   RP.trace = T; RP.ghost = ghostPath(); RP.t0 = performance.now(); RP.dur = T.length ? T[T.length - 1].t : 0;
-  if (S.stageIdx !== FREE && S.stageIdx !== DAILY && sc.clean) { cleared[SSOK.STAGES[S.stageIdx].no] = true; store.set("ssok.cleared", cleared); } }
+  if (S.stageIdx === COURSE) { if (sc0.clean) { cleared[SSOK.STAGES[S.course.list[S.course.i]].no] = true; store.set("ssok.cleared", cleared); } }
+  else if (S.stageIdx !== FREE && S.stageIdx !== DAILY && sc.clean) { cleared[SSOK.STAGES[S.stageIdx].no] = true; store.set("ssok.cleared", cleared); } }
 // 공식 궤적: 같은 상황(같은 시작 자세)을 시연 운전자가 가게 해서 뒷차축 자취를 얻는다
 const RP = { trace: [], ghost: [], t0: 0, dur: 0 };
 function ghostPath() { try { const eng = new SSOK.Engine(S.spec, S.sc, S.seed), d = new SSOK.Demo(SSOK, S.spec, S.sc, currentOpt()), pts = []; let t = 0;

diff --git a/site/plan/index.html b/site/plan/index.html
@@ -71,6 +71,7 @@ li b,p b{font-weight:600}
 footer{padding:28px 0 48px;color:var(--fg3);font-size:13px;border-top:1px solid var(--line)}
 @media (max-width:720px){.facts,.steps{grid-template-columns:1fr 1fr}}
 @media (max-width:460px){.facts,.steps{grid-template-columns:1fr}}
+table.feat{width:100%;border-collapse:collapse;font-size:14px;margin:12px 0}table.feat th,table.feat td{padding:8px 10px;border-bottom:1px solid var(--line);text-align:left;vertical-align:top}table.feat th{color:var(--fg3);font-weight:500;font-size:12px}table.feat td:first-child{white-space:nowrap;width:10em}details.more{margin:8px 0 0}details.more summary{cursor:pointer;color:var(--fg2);font-size:13px}details.more ol{margin-top:10px}
 </style>
 </head>
 <body>
@@ -101,15 +102,14 @@ footer{padding:28px 0 48px;color:var(--fg3);font-size:13px;border-top:1px solid 
     <p>주차는 사고의 집합소이자 운전의 첫 공포입니다. 차에는 이미 후방카메라와 어라운드뷰가 있지만, 사람들은 그 화면을 읽지 못합니다. 그리고 세워 둔 차에서는 후방 모니터가 R에서만, 어라운드뷰는 P에서 꺼져 연습할 곳이 없습니다.</p>
     <div class="facts">
       <div class="fact"><div class="n">30.2%</div><div class="l">물적 사고 중 주차 사고. 그중 후진 53.8%</div><div class="s">보험개발원 2017 · 2012~14년 사고</div></div>
-      <div class="fact"><div class="n">54.7%</div><div class="l">직장인 주차 스트레스 호소</div><div class="s">엠브레인, n=1,000</div></div>
-      <div class="fact"><div class="n">절반↑</div><div class="l">기능시험 탈락자 중 직각주차(T자)에서 탈락</div><div class="s">도로교통공단 보도</div></div>
+      <div class="fact"><div class="n">절반↑</div><div class="l">기능시험 탈락자 중 직각주차(T자)에서 탈락</div><div class="s">시험장 관계자 발언 · 인사이트 보도</div></div>
       <div class="fact"><div class="n">56%</div><div class="l">후방카메라만 있어도 정지 더미와 충돌</div><div class="s">IIHS 2014, n=111</div></div>
       <div class="fact"><div class="n">8~12%</div><div class="l">후진 시간 중 화면을 보는 비율</div><div class="s">NHTSA 2008</div></div>
       <div class="fact"><div class="n">15회</div><div class="l">4카메라 주차 화면이 손에 익기까지 걸린 시행 수</div><div class="s">UMTRI 2004 · n=16</div></div>
     </div>
     <p>후진 중 사람을 치는 사고(backover)는 미국에서만 해마다 약 210명이 숨지고 그중 31%가 5세 미만 어린이입니다. 후방카메라 의무화(FMVSS 111)의 근거였지만, 카메라가 있어도 화면을 보고 멈추지 않으면 소용이 없습니다. 그래서 이 앱은 사람이 갑자기 나오는 상황을 연습에 넣습니다.</p>
     <p>NHTSA는 2024년 보고서에서 "경험자·미경험자 모두 가이드라인을 노면에 겹쳐 읽는 훈련이 필요하다"고 썼습니다. 그런데 연습할 곳이 없습니다. 방문 운전연수는 10시간 58만 원이고, 불법 방문연수 단속은 2년 만에 180건에서 402건으로 늘었습니다(채우지 못한 수요). 2025년 말~2026년 초 시행령 개정으로 방문 도로연수가 허용돼 "집 앞 주차장에서 연습"이 제도 안에 들어왔습니다. 폰 주차 게임은 손가락 핸들이라 몸에 남지 않습니다.</p>
-    <p class="src">출처: 보험개발원 주차사고 통계, 엠브레인 트렌드모니터 2021, IIHS Status Report 49(2), NHTSA DOT HS 811 024, NHTSA FMVSS 111 final rule(2014) backover 통계, UMTRI-2004-17 4-camera parking study, NHTSA 2024 RVS older drivers, 세계일보 2025-09, SBS Biz 2025-12.</p>
+    <p class="src">출처: 보험개발원 주차사고 통계(2017, 2012~14년 사고), 도로교통공단 시험장 관계자 보도, IIHS Status Report 49(2), NHTSA DOT HS 811 024, NHTSA FMVSS 111 final rule(2014) backover 통계, UMTRI-2004-17 4-camera parking study, NHTSA 2024 RVS older drivers, 세계일보 2025-09, SBS Biz 2025-12.</p>
   </section>
 
   <section id="s3">
@@ -120,7 +120,8 @@ footer{padding:28px 0 48px;color:var(--fg3);font-size:13px;border-top:1px solid 
       <div class="step"><div class="k">O</div><div class="t">돌리기 O-turn</div><div class="d">서서 핸들을 끝까지. 살살 떼며 노란선이 칸에 들어오면 풀기.</div></div>
       <div class="step"><div class="k">K</div><div class="t">끝 Keep</div><div class="d">나란하면 가운데, 빨간선 전에 브레이크, 레버 N. 탑뷰 리플레이로 내 길과 공식 길을 비교.</div></div>
     </div>
-    <ol>
+    <table class="feat"><thead><tr><th>기능</th><th>한 줄</th></tr></thead><tbody><tr><td><b>내 차 핸들 = 게임 핸들</b></td><td>조향각을 실시간으로 읽어 가상 차 바퀴가 같이 꺾입니다.</td></tr><tr><td><b>오토 차 주차 그대로: 브레이크를 밟은 채 시작, 깜빡이 레버로 방향(왼쪽 = D 전진, 오른쪽 = R 후진), 브레이크를 떼면 크리핑으로 움직이고 밟으면 정지</b></td><td>가속 페달은 쓰지 않습니다(SDK에 신호도 없음).</td></tr><tr><td><b>내 차 치수</b></td><td>전장·전폭·휠베이스로 가상 차와 주차 칸(2.5×5.0 m)의 비율을 맞추고, 조향 기하(핸들 각 → 바퀴 각 → 회전반경)로 실제 차처럼 움직입니다.</td></tr><tr><td><b>차 센터 디스플레이 한 장(가로)</b></td><td>Pleos Connect 꼴로 왼쪽 앱 독 · 위 상태 바(기어 P R N D · 비상등) · 가운데 [좌 사이드미러][후방(전진 때 전방)카메라][어라운드뷰][우 사이드미러] · 아래 클러스터(핸들 각·가상 기어·브레이크·비상등·주차 거리 경고).</td></tr><tr><td><b>쏙 공식 S·S·O·K</b></td><td>앱 이름이 곧 주차 순서입니다 — S 신호(브레이크 밟은 채 비상등, 밟은 채 D) → S 자리(칸을 지나쳐 멈추고 밟은 채 R) → O 돌리기(서서 핸들 끝까지, 살살 떼기) → K 끝(나란히, 브레이크, 레버 N = P).</td></tr><tr><td><b>주차는 칸이 앞에 보이는 지점에서 시작합니다</b></td><td>바로 후진이 아니라 비상등 → D 로 칸을 지나쳐 자리 잡기 → R 로 넣기가 기본입니다(전면·사선은 D 그대로).</td></tr><tr><td><b>스테이지 15개 + 자유 연습</b></td><td>유형 4(후면 직각 · 전면 직각 · 평행 · 사선 45°) × 난이도 3 × 옆 차(없음 · 양옆 · 기둥) × 좌우 칸.</td></tr><tr><td><b>돌발</b></td><td>중급 8번부터 보행자 · 아이 · 쇼핑카트가 옆에서 나와 경로 한가운데 멈춰 섭니다.</td></tr><tr><td><b>매번 다른 상황</b></td><td>시작 위치·각, 옆 차가 칸 안에 선 자리, 차 색, 지하/지상이 상황 번호(seed)로 바뀝니다.</td></tr><tr><td><b>시연으로 가르칩니다</b></td><td>스테이지마다 [시연 먼저 보기]를 누르면 같은 상황에서 차가 공식대로 스스로 주차합니다.</td></tr><tr><td><b>공식은 받아 적게 하지 않습니다</b></td><td>코치 문구는 초급만 켜고, 중급은 [힌트]를 누를 때만, 고급은 끕니다(돌발·충돌 경고는 늘).</td></tr><tr><td><b>기록과 리더보드</b></td><td>기록 = 주행 시간 + 패널티(충돌 5초 · 사람·카트 사고 15초 · 공식보다 많은 전후진 보정 3초 · 비상등 안 켬 2초).</td></tr><tr><td><b>리플레이</b></td><td>끝나면 탑뷰 애니메이션으로 내 궤적(파란 실선)과 공식 궤적(흰 점선, 같은 상황을 시연 운전자가 간 길)을 겹쳐 어디서 핸들을 일찍 풀었는지가 바로 보입니다.</td></tr><tr><td><b>거울부터</b></td><td>독의 거울 맞추기에서 오른쪽 사이드미러를 끌어 아래·바깥 각을 맞춥니다.</td></tr><tr><td><b>오늘의 상황</b></td><td>날짜가 상황 번호라 모두 같은 스테이지·같은 옆 차·같은 시작 자세로 기록을 겨룹니다.</td></tr><tr><td><b>안전 설계</b></td><td>5분 세션, 핸들 가득 유지 요구 없음(EPS 과부하 보호·드라이 스티어링 고려), '연습 화면' 표시.</td></tr></tbody></table>
+    <details class="more"><summary>자세히 (원문 16항목)</summary><ol>
       <li><b>내 차 핸들 = 게임 핸들.</b> 조향각을 실시간으로 읽어 가상 차 바퀴가 같이 꺾입니다.</li>
       <li><b>오토 차 주차 그대로: 브레이크를 밟은 채 시작, 깜빡이 레버로 방향(왼쪽 = D 전진, 오른쪽 = R 후진), 브레이크를 떼면 크리핑으로 움직이고 밟으면 정지.</b> 가속 페달은 쓰지 않습니다(SDK에 신호도 없음). 속도는 크리핑 0.6 m/s 고정. 주차는 속도가 아니라 핸들과 타이밍이기 때문입니다.</li>
       <li><b>내 차 치수.</b> 전장·전폭·휠베이스로 가상 차와 주차 칸(2.5×5.0 m)의 비율을 맞추고, 조향 기하(핸들 각 → 바퀴 각 → 회전반경)로 실제 차처럼 움직입니다.</li>
@@ -137,7 +138,7 @@ footer{padding:28px 0 48px;color:var(--fg3);font-size:13px;border-top:1px solid 
       <li><b>거울부터.</b> 독의 거울 맞추기에서 오른쪽 사이드미러를 끌어 아래·바깥 각을 맞춥니다. 차체 1/5·뒷바퀴·옆 칸 주차선이 보이면 통과. 후측방에 차·사람이 있으면 거울 안쪽에 경고 아이콘이 점멸합니다.</li>
       <li><b>오늘의 상황.</b> 날짜가 상황 번호라 모두 같은 스테이지·같은 옆 차·같은 시작 자세로 기록을 겨룹니다. 차종은 아반떼·그랜저·투싼, 옆 차도 이 셋 중 하나가 실제 치수로 섭니다.</li>
       <li><b>안전 설계.</b> 5분 세션, 핸들 가득 유지 요구 없음(EPS 과부하 보호·드라이 스티어링 고려), '연습 화면' 표시.</li>
-    </ol>
+    </ol></details>
     <p><b>차에서만 가능한 이유.</b> 폰·태블릿·어떤 앱도 내 차 핸들 각도·깜빡이·브레이크를 읽지 못합니다. 내 차 치수와 내 차 화면 구성으로 연습해야 기준점 감각이 그대로 옮겨집니다. 실제 카메라 영상은 서드파티 앱에 열리지 않고 P에서는 꺼지므로, 재현이 유일한 길이자 어라운드뷰 없는 차에도 가치를 줍니다.</p>
   </section>
 
@@ -186,14 +187,14 @@ footer{padding:28px 0 48px;color:var(--fg3);font-size:13px;border-top:1px solid 
         <tr><td>초보(신차·중고차)</td><td>신규 면허 88.5만 명/년(10·20대 80%). 첫차의 64%가 중고차, 이유 1위 '운전 미숙' 53%(오토벨 1,148명)</td></tr>
         <tr><td>장롱면허 재시작</td><td>연수 10시간 58만 원, 불법 방문연수 단속 180→402건(2년), 2026-01 방문연수 합법화, 쏘카 교육용 차량 운영</td></tr>
         <tr><td>차를 바꾼 사람</td><td>신차 169.5만 + 중고 약 226만 대/년 = 연 약 400만 '새 차 적응'(추정). 영국 62% "큰 차 주차 어렵다"</td></tr>
-        <tr><td>카셰어링·렌터카</td><td>쏘카 1,000만 회원, 차대차 사고 91%(일반 76%). 쏘카는 Pleos 25 파트너</td></tr>
+        <tr><td>카셰어링·렌터카</td><td>쏘카 1,000만 회원, 차대차 사고 91%(일반 76%). 쏘카는 Pleos 25(2025.3)에서 첫 양산차부터 쏘카 서비스를 함께 론칭한다고 발표</td></tr>
         <tr><td>시니어</td><td>65세+ 면허 563만. 페달 오조작 567건 중 60세+ 70.5%, 최다 유형 '상가 돌진'(주차·후진 저속)</td></tr>
         <tr><td>해외</td><td>영국 32% 평행·후진주차 회피, 미국 49% 평행주차 공포 → 2030년 2,000만 대 확장 서사</td></tr>
       </tbody>
     </table>
-    <p><b>MAU(추정, 범위).</b> Pleos 탑재 국내 설치 기반 2026년 말 8~10만 대, 2027년 말 약 25만 대 × 설치율 10~30% × 월 활성 30~50% → <b>2027년 말 1만~4만</b>. 앱 마켓 사용 통계가 공개된 것이 없어 점 추정 대신 범위로 둡니다.</p>
+    <p><b>MAU(추정, 범위).</b> 설치 기반 = 플레오스 커넥트 탑재 차. 더 뉴 그랜저(2026.5 출시, 2026.9 국내 8,898대/월) + 디 올 뉴 아반떼(2026 하반기, 7세대 기준 7,305대/월). 2026년 말 약 8~9만 대(그랜저 5~12월 6~7만 + 신형 아반떼 출시분 1~2만), 2027년 말 약 25만 대(그랜저·아반떼 연 18만 + 추가 적용 차종). × 설치율 10~30% × 월 활성 30~50% → <b>2027년 말 MAU 1만~4만</b>. 앱 마켓 사용 통계가 공개된 것이 없어 점 추정 대신 범위로 둡니다. 근거: 현대차 2026년 9월 국내 판매 보도.</p>
     <p><b>Retention.</b> 졸업형 앱이므로 잔존율 대신 <b>코스 졸업률</b>과 <b>이벤트 재방문</b>(차 교체·가족 프로필 추가·100일 복습)으로 정의합니다.</p>
-    <p><b>수익과 HMG 가치.</b> 기본 코스 무료 + 고급 코스(연수 1시간 5~6만 원이 가격 앵커). 운전연수·쏘카 온보딩 B2B. 보험 연계(주차사고 = 물적사고 보험금 25.7%). HMG에게는 자동주차 55% 미사용·28% "사용법 모름"(J.D. Power)을 줄이는 주차 보조 옵션 온보딩·업셀 경로이자 전시 체험 콘텐츠입니다.</p>
+    <p><b>수익과 HMG 가치.</b> 기본 코스 무료 + 고급 코스(연수 1시간 5~6만 원이 가격 앵커). 운전연수·쏘카 온보딩 B2B. 보험 연계(주차사고 = 물적사고 보험금 25.7%). HMG에게는 자동주차를 써 본 적 없거나(47%) 쓰다 만(8%) 55%, 안 쓰는 이유 28% "사용법 모름"(J.D. Power TXI 2018)을 줄이는 주차 보조 옵션 온보딩·업셀 경로이자 전시 체험 콘텐츠입니다.</p>
   </section>
 
   <section id="s7">
